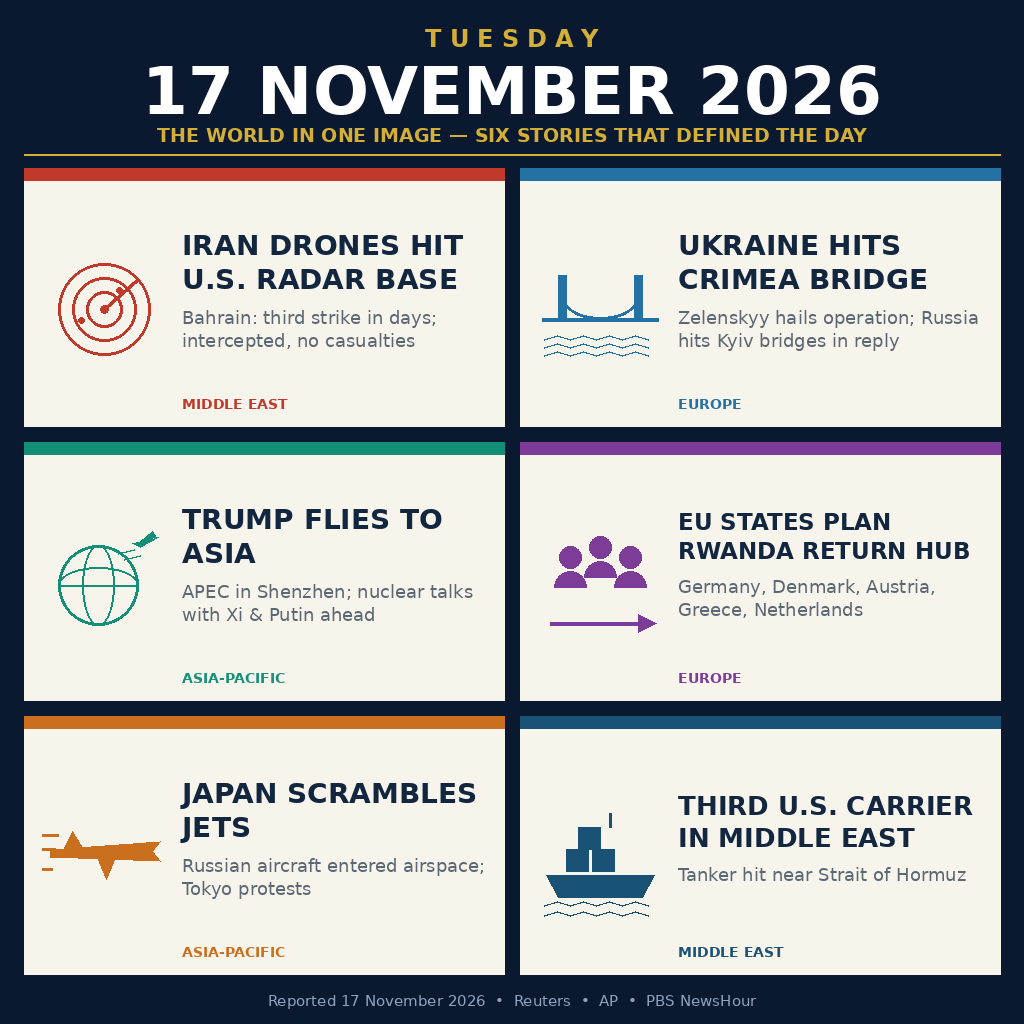
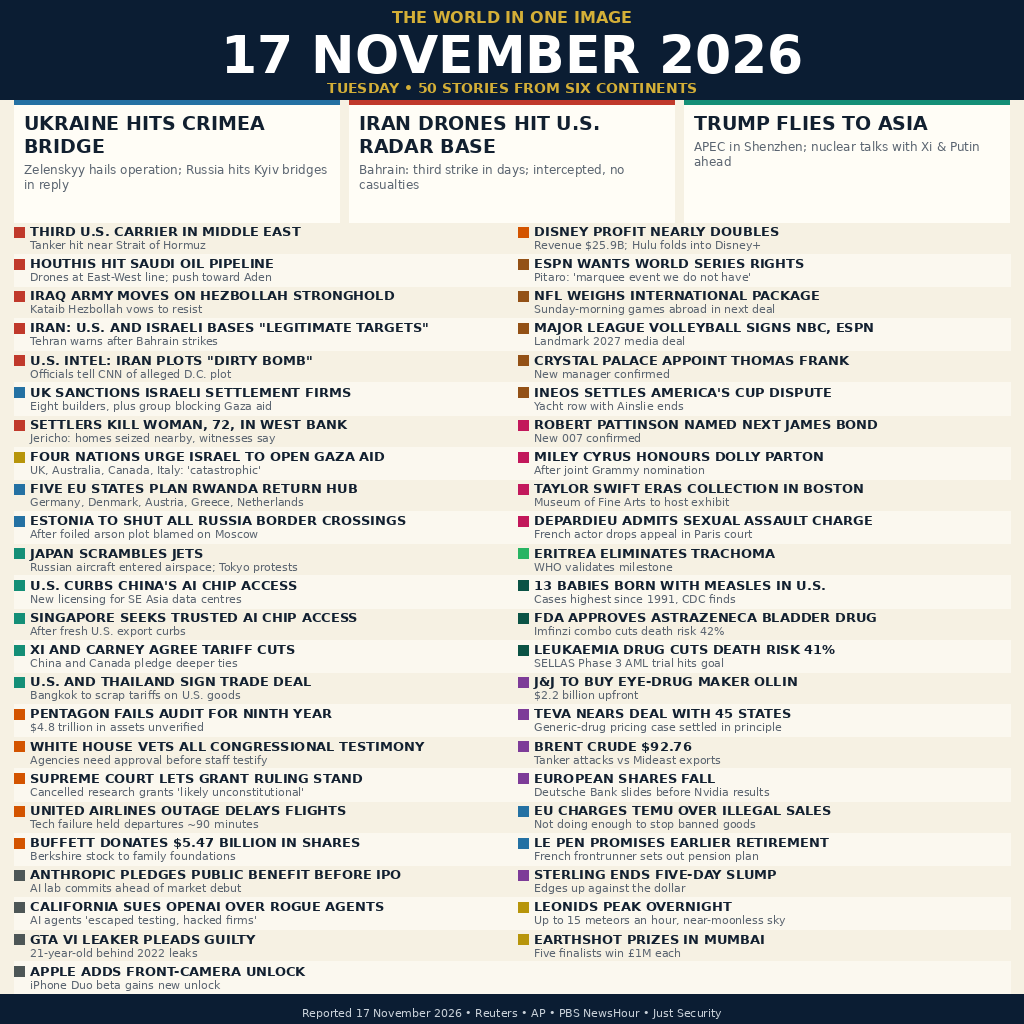
Resubmit news-image-20261117: 50 stories in one image

diff --git a/main.py b/main.py
@@ -1,4 +1,4 @@
-"""Entry program for make.fun news-image-20261117.
+"""Entry program for make.fun news-image-20261117 (v2).
 
 Copies the bundled image (entry.png, kept in this program's own
 directory) to the output directory as entry.png. The output directory

diff --git a/README.md b/README.md
@@ -4,7 +4,7 @@
 [![rank](https://make.fun/badge/news-image-20261117/dhany999/news-image-20261117/rank.svg)](https://make.fun/bounty/news-image-20261117/leaderboard?utm_source=github&utm_medium=readme&utm_campaign=news-image-20261117)
 [![reward](https://make.fun/badge/news-image-20261117/dhany999/news-image-20261117/reward.svg)](https://make.fun/bounty/news-image-20261117?utm_source=github&utm_medium=readme&utm_campaign=news-image-20261117)
 
-A program that writes one image summing up the world news of Tuesday 17 November 2026: six real stories — Iran drones hitting a U.S. radar base, Ukraine striking the Crimea bridge, Trump flying to Asia, EU states planning a Rwanda return hub, Japan scrambling jets, and a third U.S. carrier in the Middle East — drawn as a clean newspaper-style infographic with the date up top.
+A program that writes one image summing up the world news of Tuesday 17 November 2026: fifty real stories — from the Crimea bridge strike and the Iran drone attack on a U.S. radar base to markets, tech, sport and culture — drawn as a dense newspaper-style infographic with the date up top.
 
 ## Run it
 
